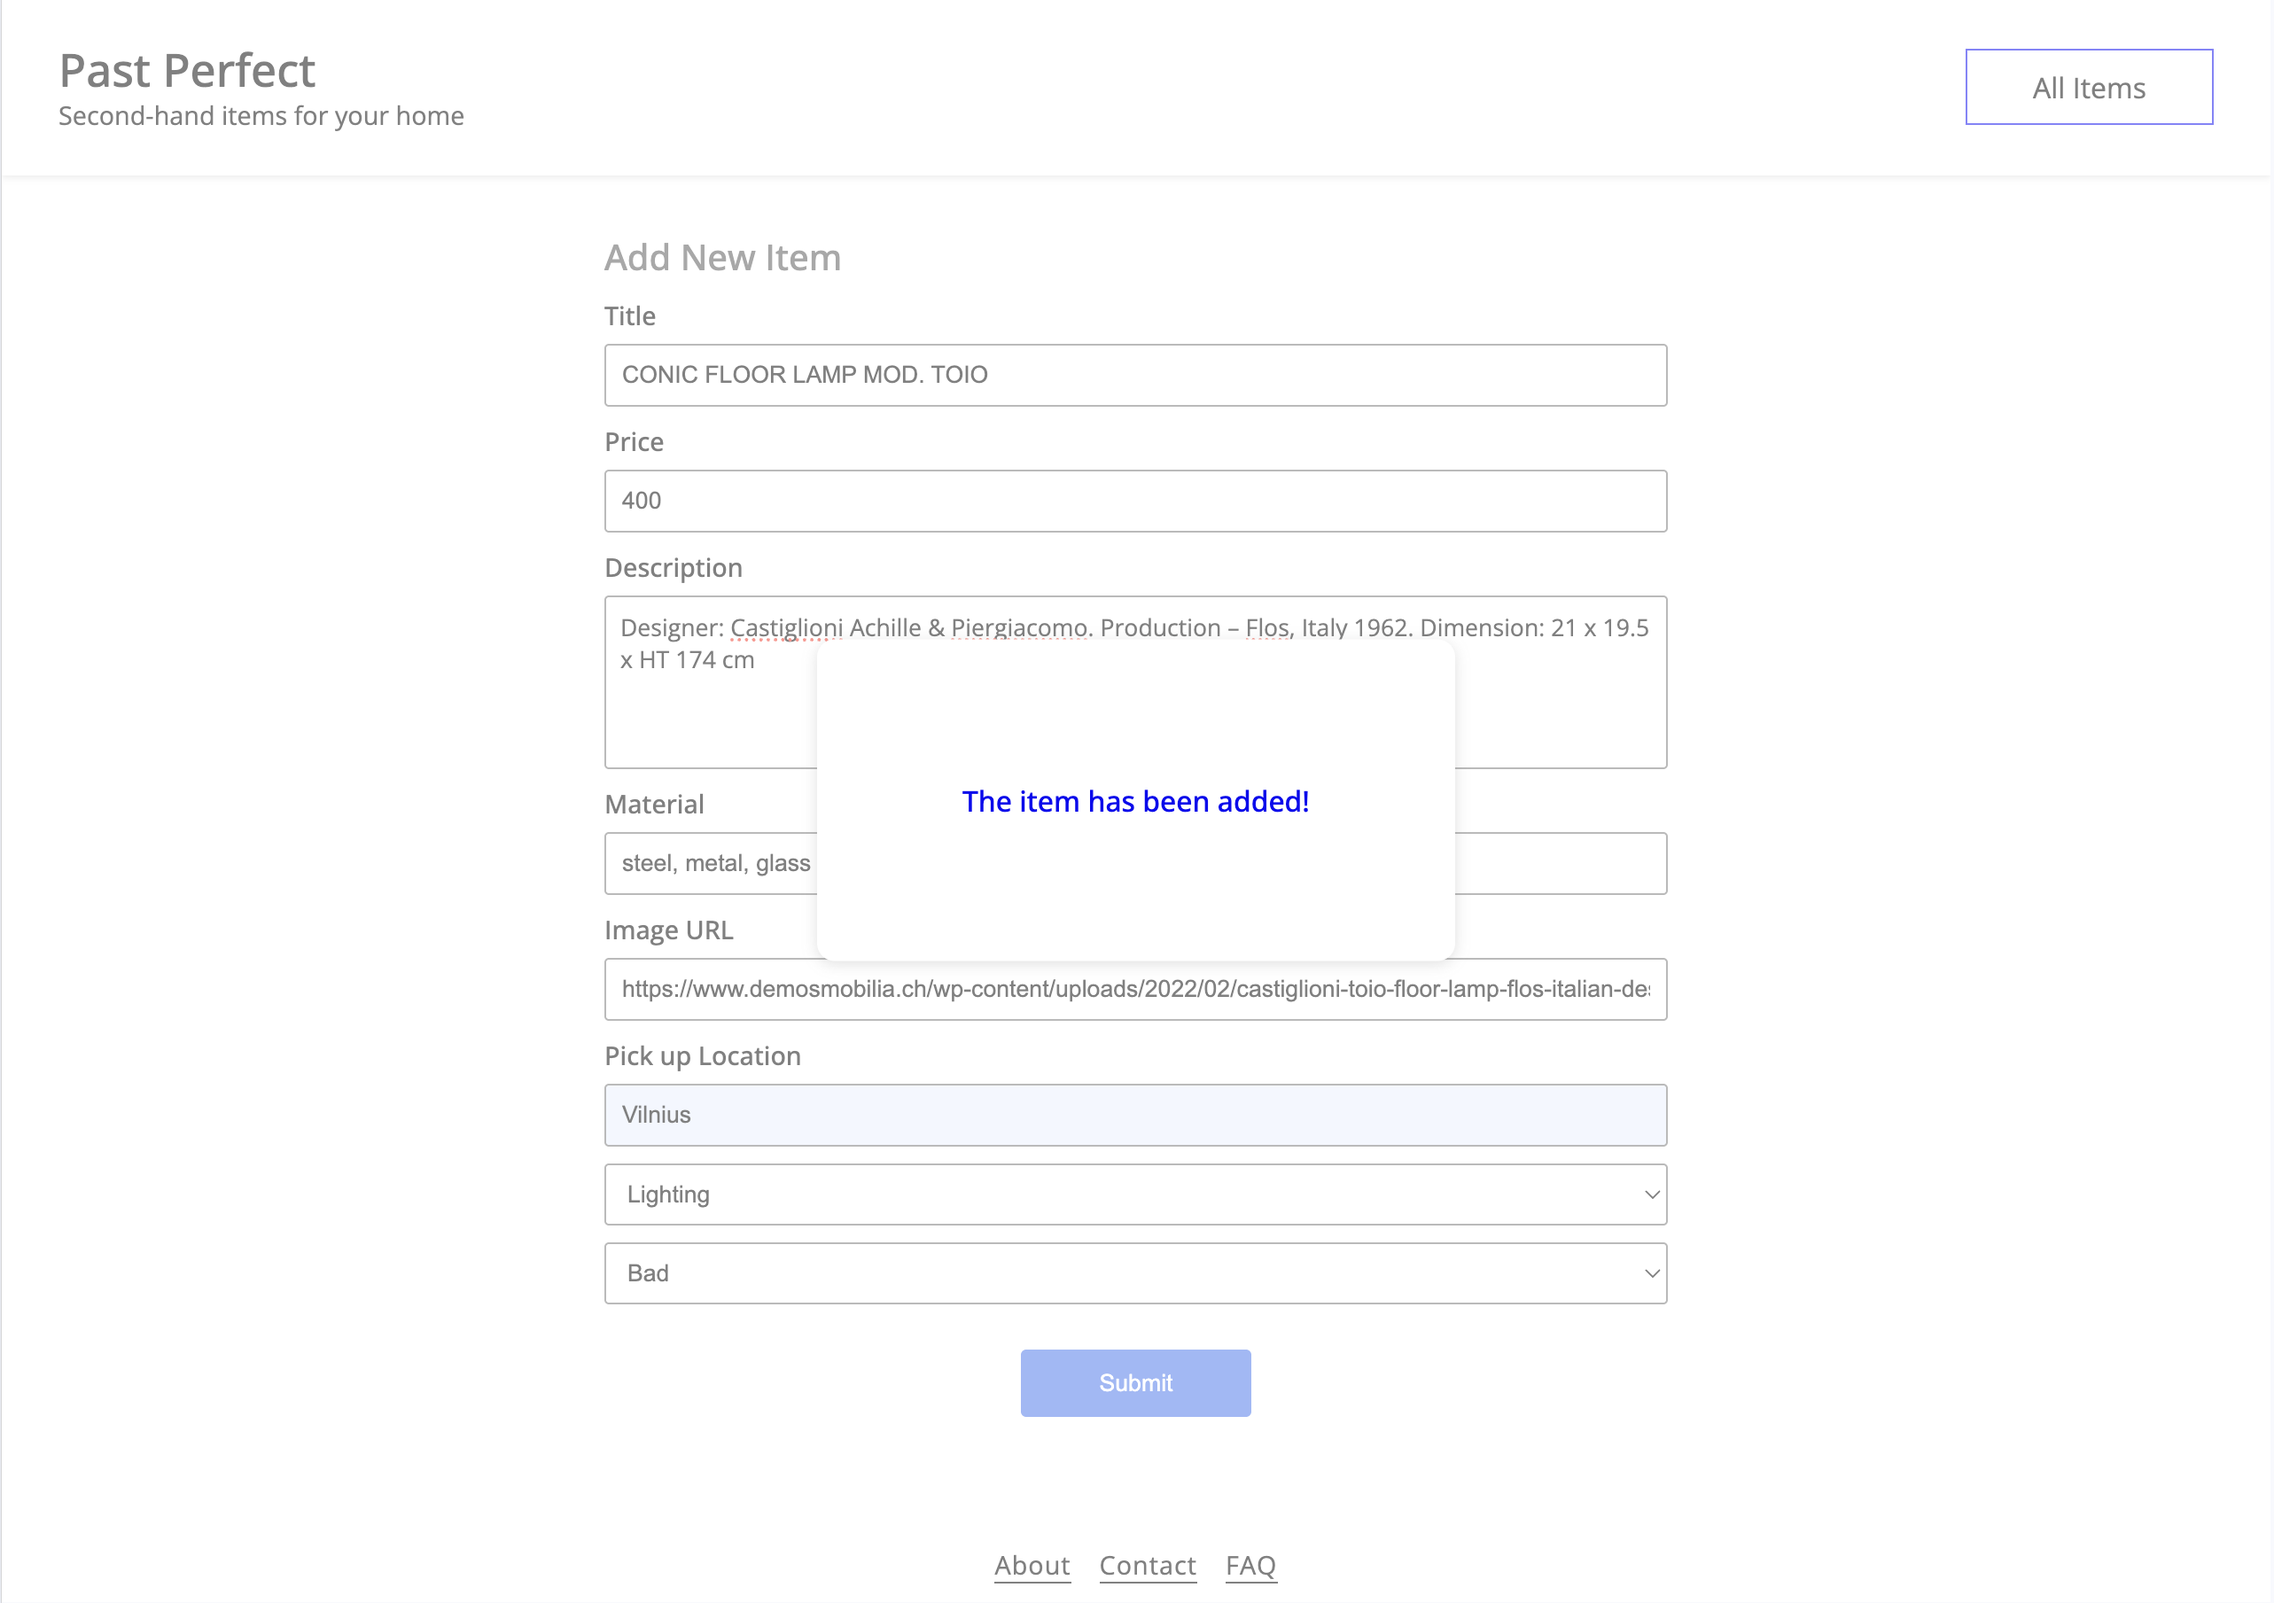
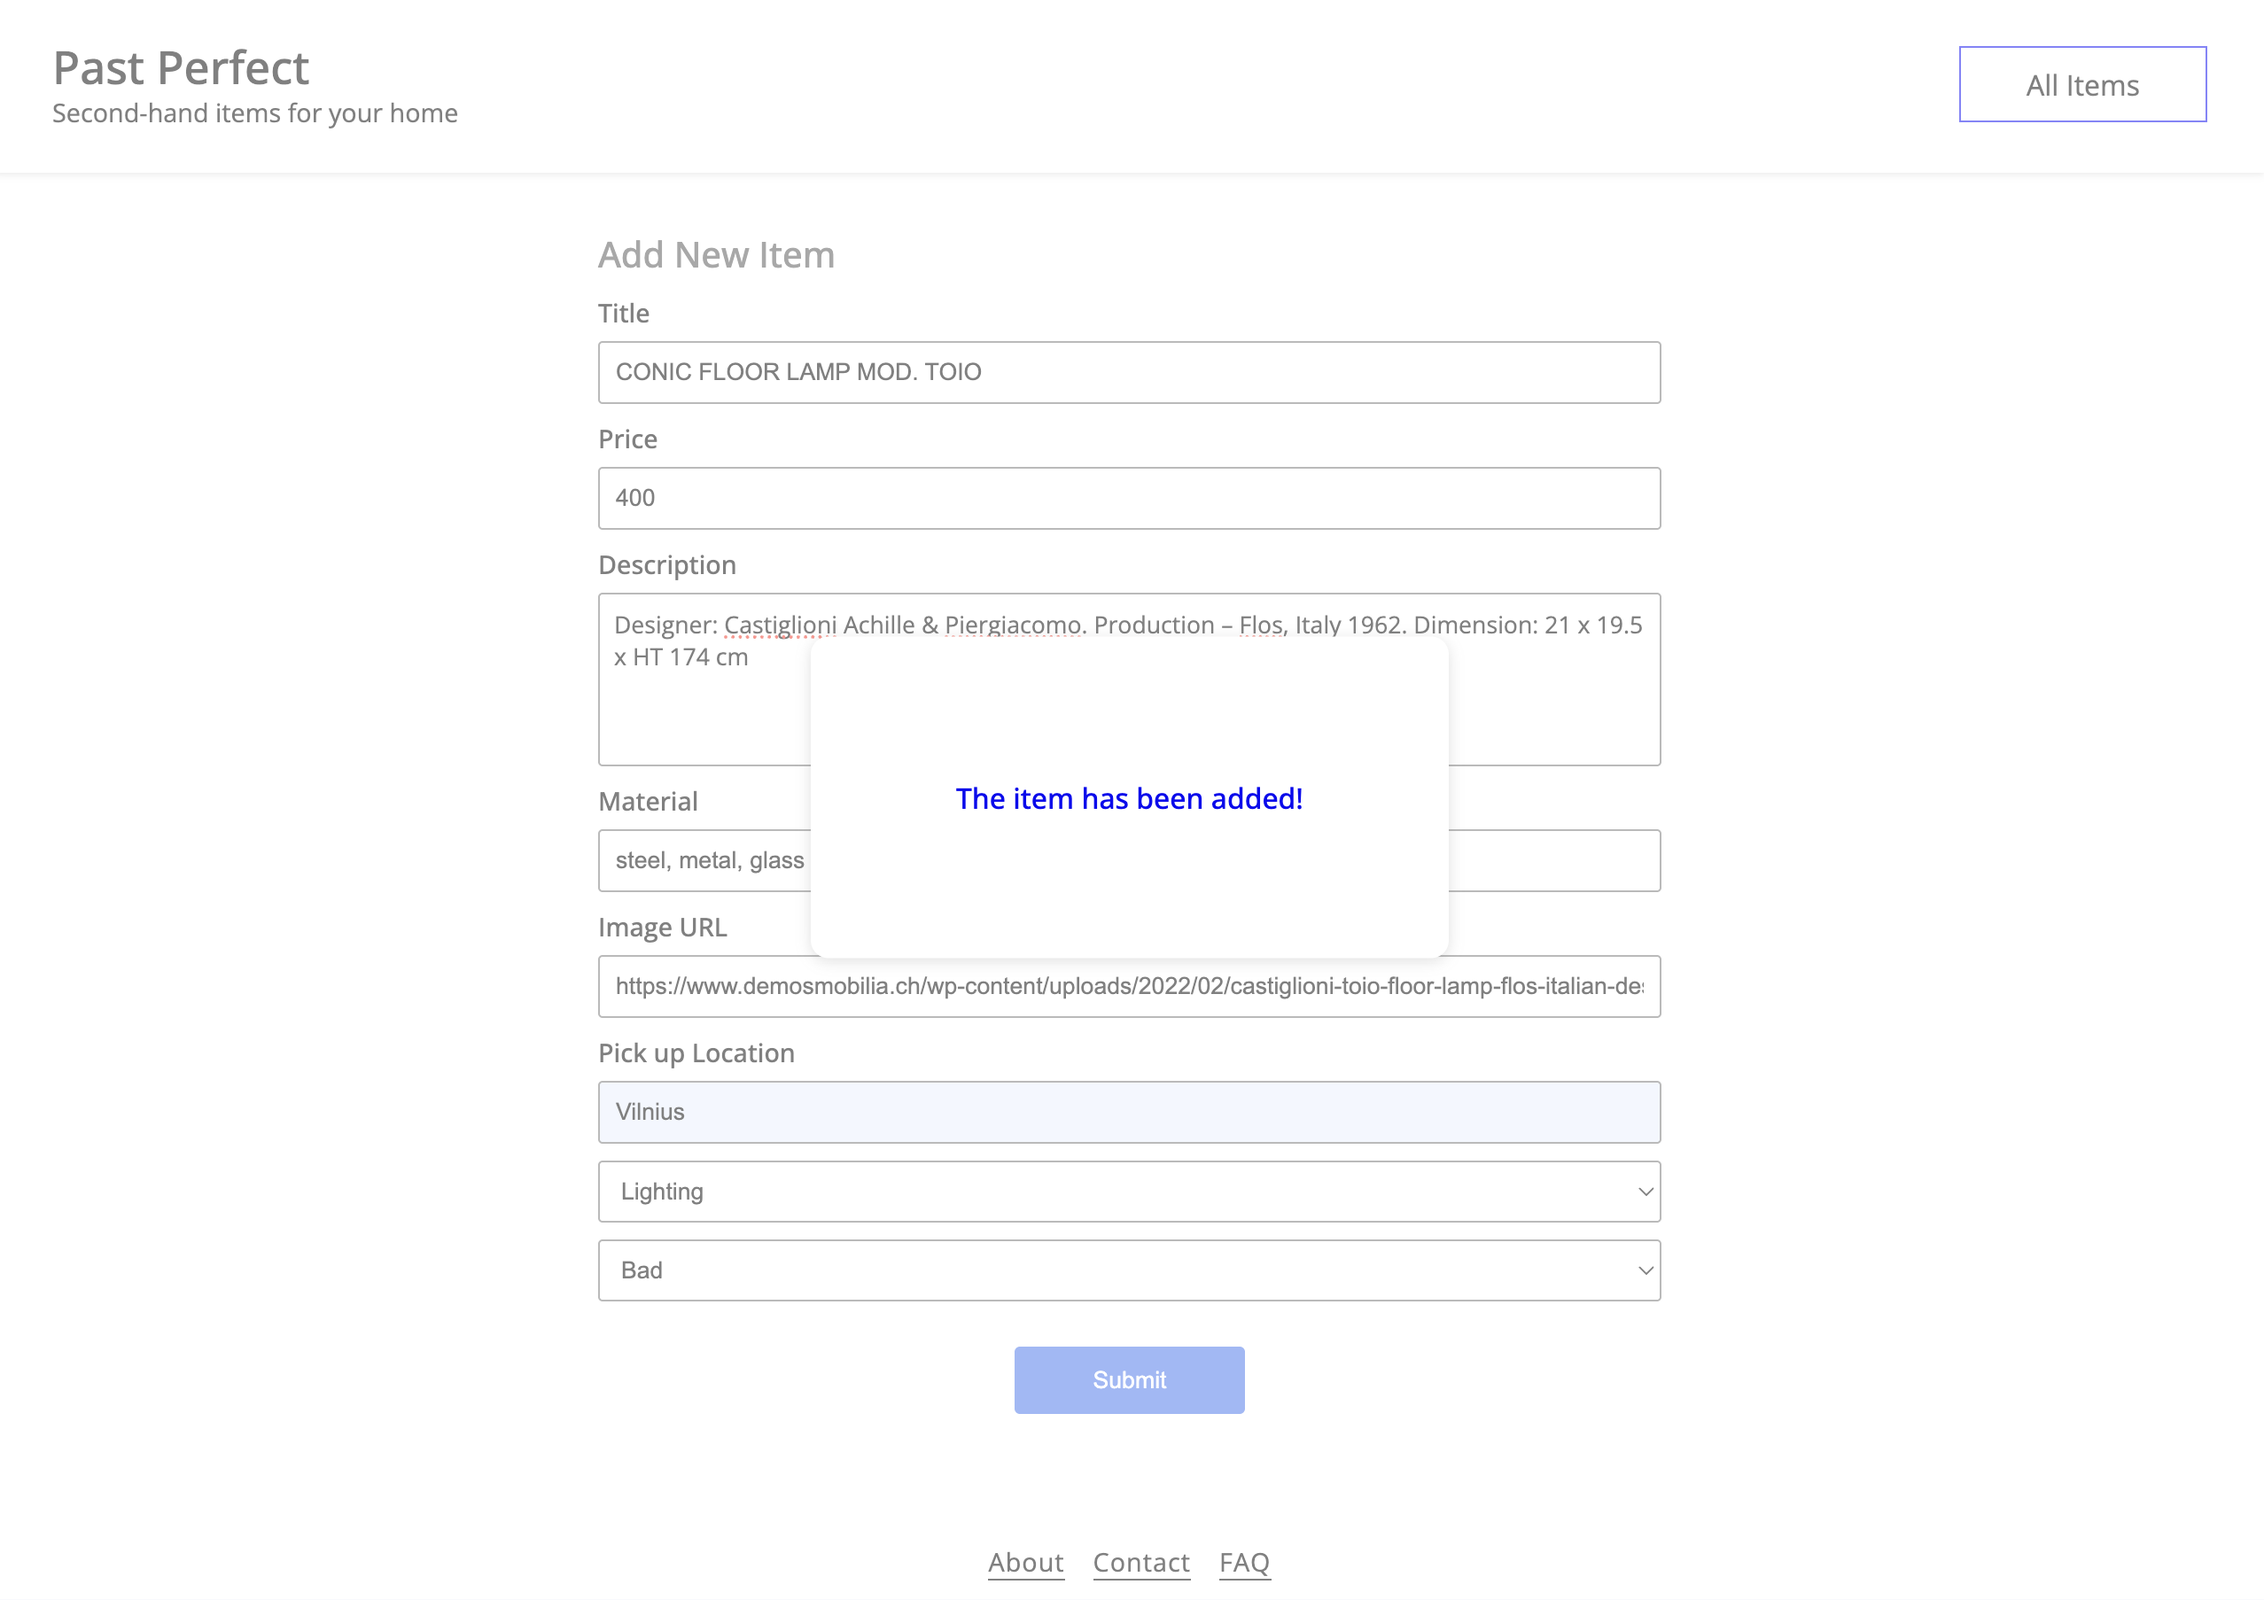
Fix: recropped screenshots and cleaned up README

diff --git a/README.md b/README.md
@@ -46,6 +46,8 @@ It interacts with [MockAPI](https://mockapi.io/) to simulate CRUD operations.
 
 ## Screenshots
 
+## Screenshots
+
 ### Homepage (Desktop View)
 
 ![Homepage Desktop](assets/screenshots/homepage-desktop.png)
